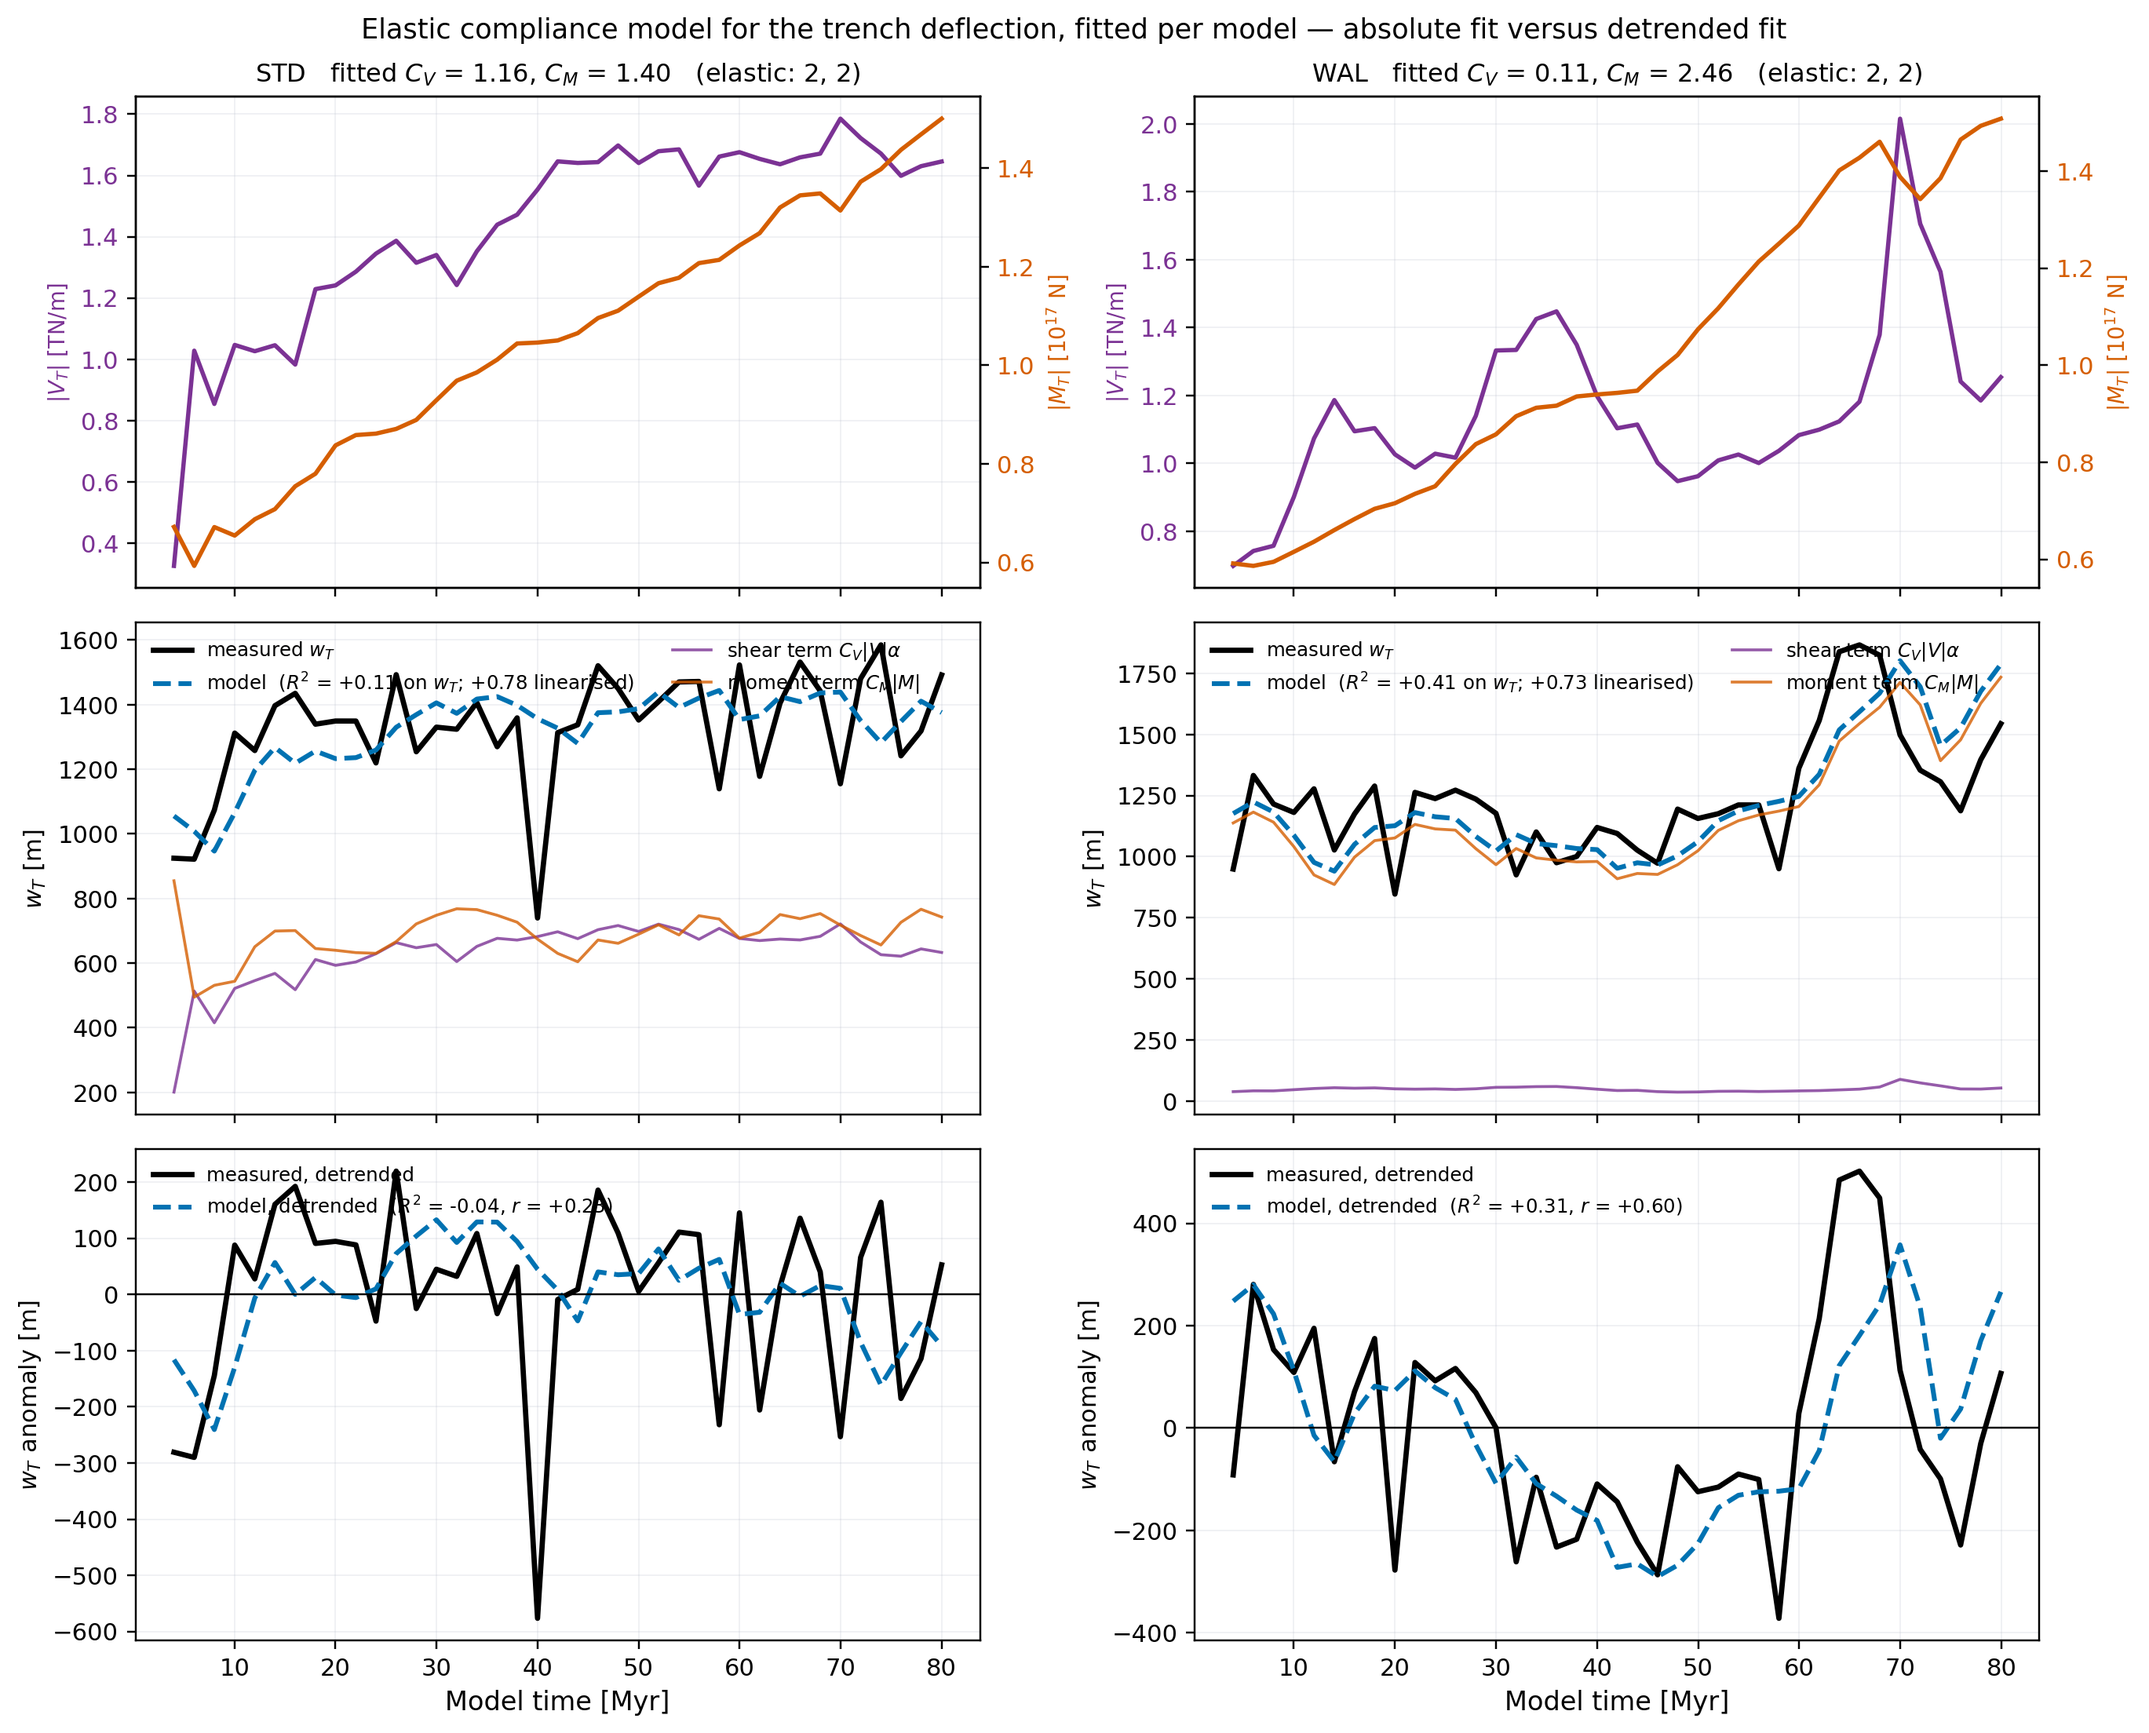
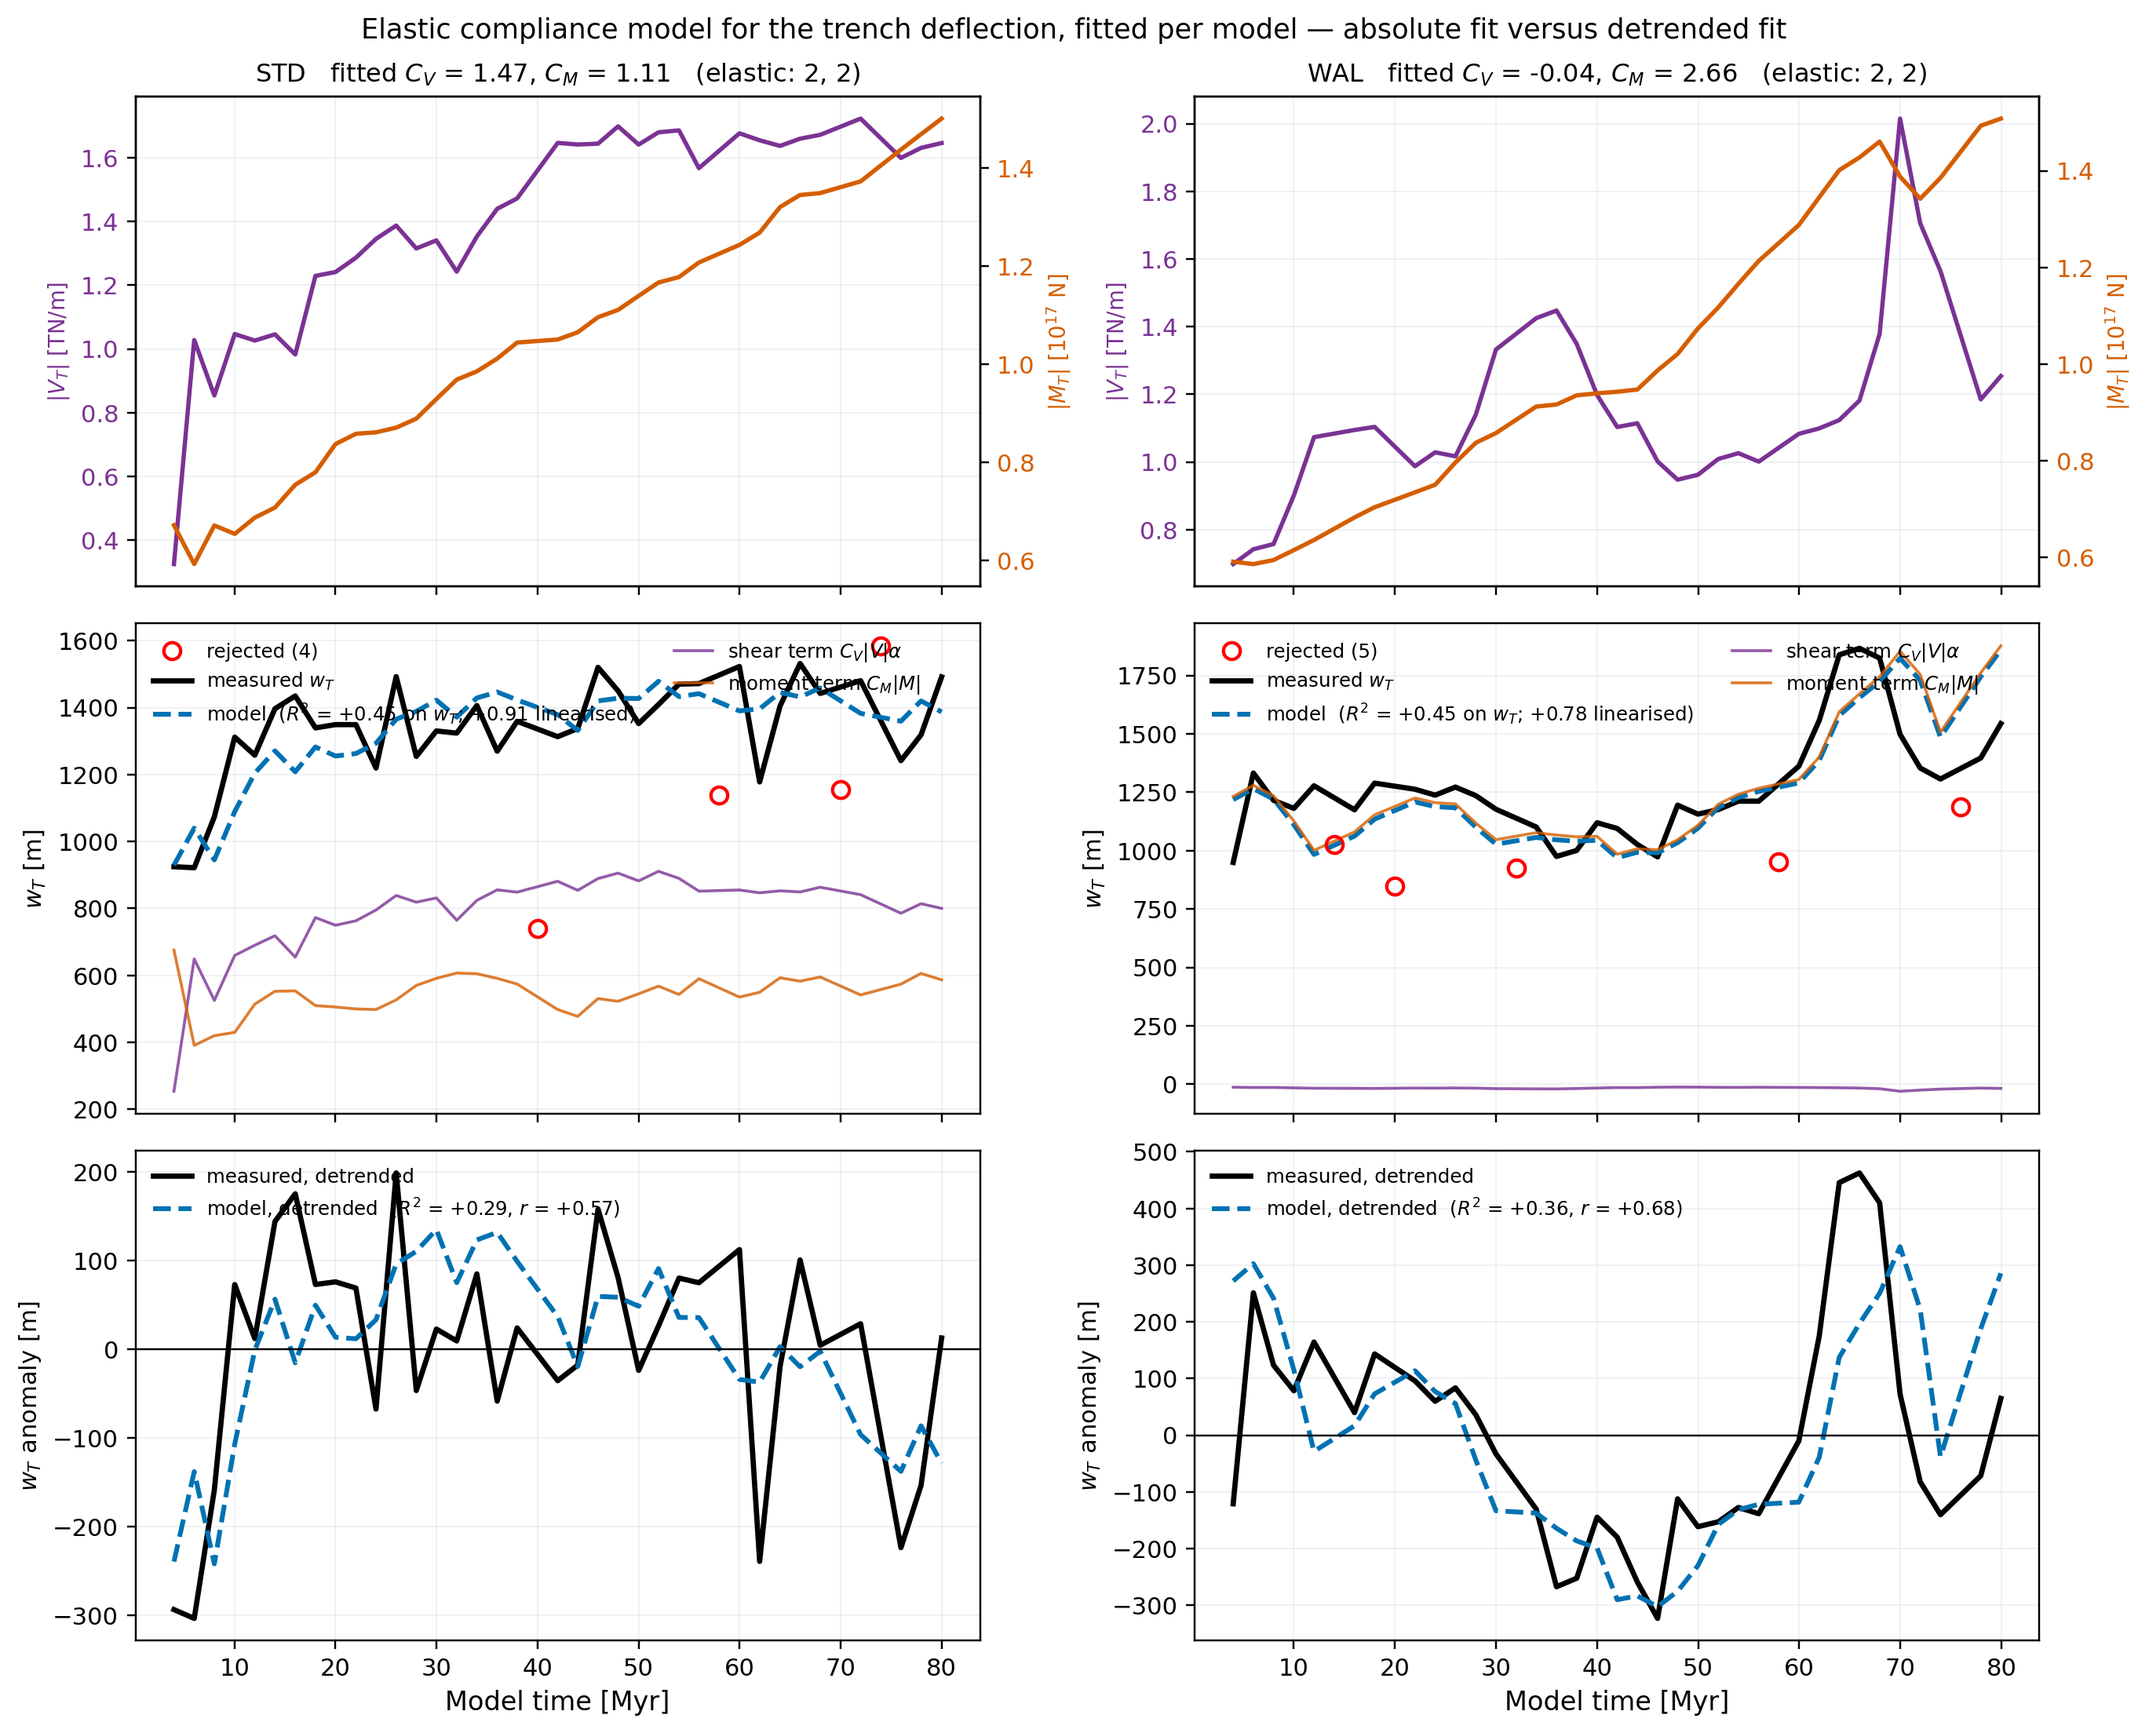
fig_compliance_time: reject trench-pick outliers before fitting
Dan was right that the R2 was being destroyed by outliers, and that I
could not see it. w_T carries isolated trench-pick excursions -- STD
drops 574 m below its local median at t = 40 Myr and recovers the next
snapshot. Four such points in STD, five in WAL, rejected at 3 MAD about a
5-point running median and MARKED on the figure rather than quietly
dropped.

                  with outliers        robust
    STD  C_V,C_M   1.16, 1.40          1.47, 1.11
         R2 on w_T   +0.11               +0.45
         R2 detrend  -0.04               +0.29  (r +0.57)
    WAL  C_V,C_M   0.11, 2.46         -0.04, 2.66
         R2 on w_T   +0.41               +0.45
         R2 detrend  +0.31               +0.36  (r +0.68)

STD now behaves as Dan said it looked: correlation in BOTH the trend and
the residual, with coefficients (1.47, 1.11) within a factor of two of
elastic. My earlier "the model explains none of STD's variability" was an
artefact of four points.

WAL's C_V does NOT survive as a real coefficient but does survive as a
result: it goes to -0.04, i.e. the shear term contributes nothing at all,
and this is not an outlier effect, not a leverage effect (|V|alpha/|M| is
0.94, so the fit has full leverage on C_V), and not an alpha effect
(median alpha is 84 km in BOTH models). The moment carries everything,
with C_M = 2.66 above the elastic 2.

diff --git a/scripts/kinematics/fig_compliance_time.py b/scripts/kinematics/fig_compliance_time.py
@@ -55,6 +55,7 @@ import matplotlib
 matplotlib.use('Agg')
 import matplotlib.pyplot as plt
 from scipy.optimize import brentq
+from scipy.ndimage import median_filter
 
 _HERE = os.path.dirname(os.path.abspath(__file__))
 sys.path.insert(0, os.path.dirname(_HERE))
@@ -112,10 +113,21 @@ def main():
         t, a = ts['t_myr'][g], ts['alpha'][g]
         V, M, w = np.abs(ts['V_T'][g]), np.abs(ts['M'][g]), ts['w_T'][g]
 
-        # fit PER MODEL, in the prototype's linearised form
-        A = np.vstack([V * a, M]).T
-        Y = w * DRHO * G * a ** 2
+        # OUTLIER REJECTION (Dan, 2026-09-22). w_T carries isolated
+        # trench-pick excursions -- STD drops 574 m below its local median
+        # at t = 40 Myr and recovers immediately. Four such points in STD
+        # and five in WAL were destroying the fit: STD's R2 on w_T went
+        # from +0.45 to +0.11 and its detrended R2 from +0.29 to -0.04
+        # because of them. Rejected at 3 MAD about a 5-point running
+        # median, MARKED on the figure rather than quietly dropped.
+        resid = w - median_filter(w, size=5, mode='nearest')
+        mad = np.median(np.abs(resid - np.median(resid))) * 1.4826
+        keep = np.abs(resid) <= 3 * mad
+        A = np.vstack([V[keep] * a[keep], M[keep]]).T
+        Y = w[keep] * DRHO * G * a[keep] ** 2
         (cV, cM), *_ = np.linalg.lstsq(A, Y, rcond=None)
+        t, a, V, M, w = t[keep], a[keep], V[keep], M[keep], w[keep]
+        t_out, w_out = ts['t_myr'][g][~keep], ts['w_T'][g][~keep]
         w_model = (cV * V * a + cM * M) / (DRHO * G * a ** 2)
         w_V = cV * V * a / (DRHO * G * a ** 2)     # shear contribution
         w_M = cM * M / (DRHO * G * a ** 2)         # moment contribution
@@ -126,6 +138,7 @@ def main():
         # that R2 mostly measures how well alpha^2 is reproduced -- not how
         # well w_T is predicted. Both are reported; they differ enormously.
         R2_lin = r2(Y, A @ np.array([cV, cM]))
+        lev = float(np.median(V * a / M))
 
         ld = lambda y: y - np.polyval(np.polyfit(t, y, 1), t)
         R2_det = r2(ld(w), ld(w_model))
@@ -142,6 +155,8 @@ def main():
         a0.set_title(f'{key}   fitted $C_V$ = {cV:.2f}, $C_M$ = {cM:.2f}'
                      '   (elastic: 2, 2)', fontsize=10.5)
 
+        a1.plot(t_out, w_out, 'o', mfc='none', mec='r', ms=7, mew=1.4,
+                label=f'rejected ({len(t_out)})', zorder=5)
         a1.plot(t, w, '-', color=C_MEAS, lw=2.2, label='measured $w_T$')
         a1.plot(t, w_model, '--', color=C_MODEL, lw=2.0,
                 label=f'model  ($R^2$ = {R2_abs:+.2f} on $w_T$; '
@@ -167,7 +182,8 @@ def main():
         print(f'{key}: C_V {cV:.2f}, C_M {cM:.2f}; R2 absolute {R2_abs:+.3f}, '
               f'R2 DETRENDED {R2_det:+.3f} (r {rr:+.2f}); shear term carries '
               f'{share:.0f} % of the mean deflection; n={g.sum()}; '
-              f'R2 in the prototype linearised space {R2_lin:+.3f}')
+              f'R2 linearised {R2_lin:+.3f}; rejected {len(t_out)}; '
+              f'|V|a/|M| median {lev:.2f}')
         rows += [(key, 'C_V', f'{cV:.3f}'), (key, 'C_M', f'{cM:.3f}'),
                  (key, 'C_M_over_C_V', f'{cM/cV:.3f}'),
                  (key, 'r2_absolute', f'{R2_abs:.3f}'),
@@ -175,7 +191,9 @@ def main():
                  (key, 'r2_detrended', f'{R2_det:.3f}'),
                  (key, 'corr_detrended', f'{rr:.3f}'),
                  (key, 'shear_share_of_mean_deflection_percent', f'{share:.1f}'),
-                 (key, 'n_snapshots', str(int(g.sum())))]
+                 (key, 'n_snapshots_used', str(int(keep.sum()))),
+                 (key, 'n_outliers_rejected', str(int((~keep).sum()))),
+                 (key, 'V_term_over_M_term_median', f'{lev:.3f}')]
 
     fig.suptitle('Elastic compliance model for the trench deflection, fitted per '
                  'model — absolute fit versus detrended fit', fontsize=11.5)
